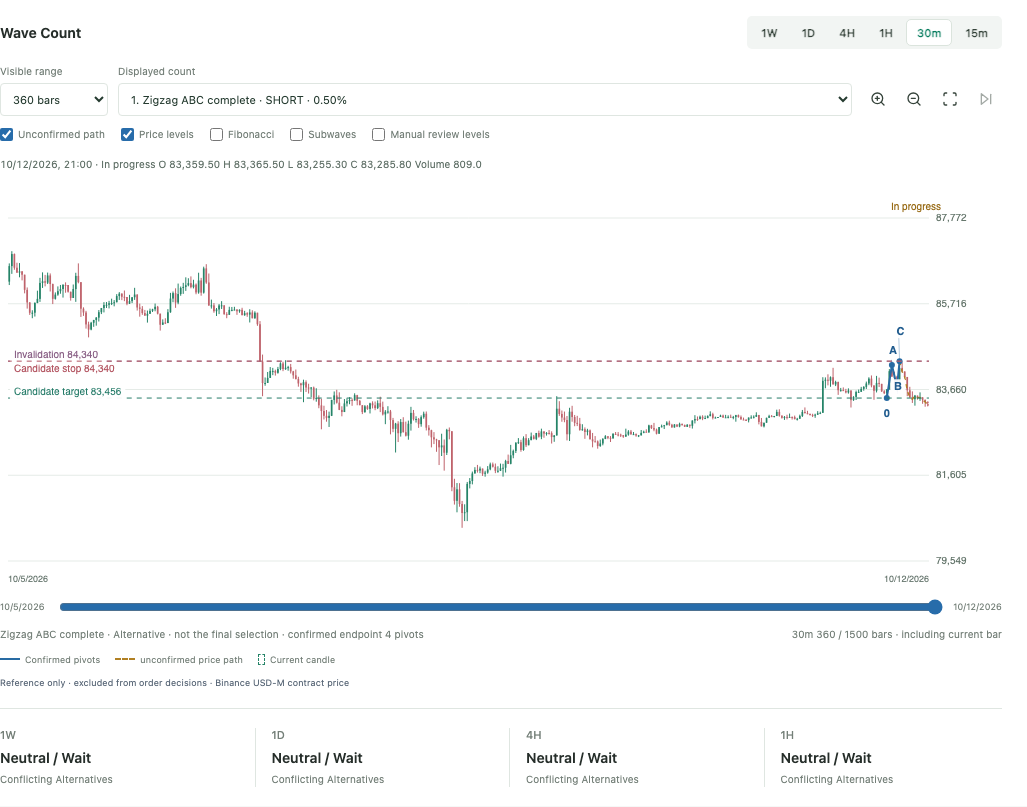
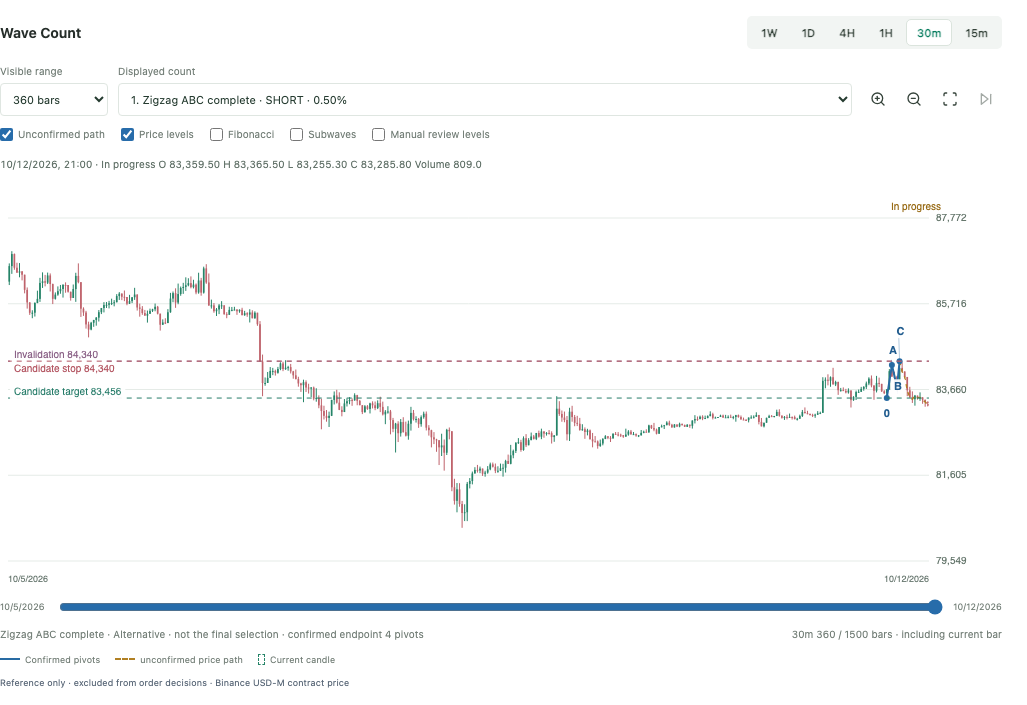
Show long short and neutral wave examples

diff --git a/README.md b/README.md
@@ -33,13 +33,17 @@ The interface defaults to English. Choose **한국어** from the **Language** me
 
 ## Screenshots
 
-These static screenshots were captured from the running PAPER app using public Binance USD-M candles on **12 Oct 2026 (KST)**. No API credentials, exchange account, or live orders were used. The main dashboard shows `WAIT`; the count examples below are not trade recommendations.
+These static screenshots were captured from the running PAPER app using public Binance USD-M candles on **12 Oct 2026 (KST)**. No API credentials, exchange account, or live orders were used. They show all three outcomes: a historical LONG candidate, a SHORT reference candidate, and the current `WAIT` decision. The directional candidates are below the configured fit threshold and are not trade signals.
 
 <table>
   <tr>
-    <td width="50%"><img src="docs/images/waves-4h-chart.png" alt="Historical four-hour Elliott Wave 3 LONG candidate with confirmed pivots, stop, target, and invalidation" /><br /><sub>4H · Historical Wave 3 LONG example · 12 Oct 2026, 16:59 KST · fit 61.2/100, below the 70 minimum · not a current signal</sub></td>
-    <td width="50%"><img src="docs/images/waves-30m-chart.png" alt="Latest thirty-minute Elliott Wave ABC completion candidate projected SHORT, marked reference-only" /><br /><sub>30m · Latest ABC SHORT candidate · fit 64.5/100, below the 70 minimum · reference only, not the final count or an entry signal</sub></td>
+    <td width="33%"><img src="docs/images/waves-4h-chart.png" alt="Historical four-hour Elliott Wave 3 LONG candidate with confirmed pivots, stop, target, and invalidation" /><br /><sub>LONG · 4H Wave 3 historical candidate · 12 Oct 2026, 16:59 KST · fit 61.2/100, below the 70 minimum · not a current signal</sub></td>
+    <td width="33%"><img src="docs/images/waves-30m-chart.png" alt="Latest thirty-minute Elliott Wave ABC completion candidate projected SHORT, marked reference-only" /><br /><sub>SHORT · 30m ABC candidate · 12 Oct 2026 snapshot · fit 64.5/100, below the 70 minimum · reference only, not an entry signal</sub></td>
+    <td width="33%"><img src="docs/images/direction-neutral.png" alt="Current four-hour dashboard decision is WAIT because no qualified entry structure is confirmed" /><br /><sub>NEUTRAL / WAIT · Current 4H strategy decision · no qualified Wave 3/5 entry structure</sub></td>
   </tr>
+</table>
+
+<table>
   <tr>
     <td><img src="docs/images/manual-levels.png" alt="Manual chart review with a hypothetical SHORT entry, stop, invalidation, and target levels" /><br /><sub>Manual review · hypothetical SHORT at the snapshot price · not an exchange position</sub></td>
     <td><img src="docs/images/risk-settings-sample.png" alt="Risk settings for capital, leverage, trade risk, and daily limits" /><br /><sub>Risk controls · capital, leverage, and loss limits</sub></td>

diff --git a/docs/README.ko.md b/docs/README.ko.md
@@ -33,13 +33,17 @@
 
 ## 화면
 
-아래 이미지는 **2026년 10월 12일(KST)** 공개 Binance USD-M 캔들을 사용해 실제 PAPER 화면에서 캡처한 정적 스냅샷입니다. API 키·거래소 계정·실주문은 사용하지 않았습니다. 메인 화면의 판정은 `WAIT`이며, 아래 카운트 예시는 매매 추천이 아닙니다.
+아래 이미지는 **2026년 10월 12일(KST)** 공개 Binance USD-M 캔들을 사용해 실제 PAPER 화면에서 캡처한 정적 스냅샷입니다. API 키·거래소 계정·실주문은 사용하지 않았습니다. LONG 과거 후보, SHORT 참고 후보, 현재 `WAIT` 판정까지 세 가지 결과를 각각 보여줍니다. LONG·SHORT 후보는 설정된 적합도 기준에 미달하므로 진입 신호가 아닙니다.
 
 <table>
   <tr>
-    <td width="50%"><img src="images/waves-4h-chart.png" alt="확정 피벗, 손절, 목표와 무효화가 표시된 과거 4시간봉 엘리엇 3파 롱 후보" /><br /><sub>4시간봉 · 과거 3파 LONG 예시 · 2026년 10월 12일 16:59 KST · 적합도 61.2/100, 최소 기준 70 미달 · 현재 신호 아님</sub></td>
-    <td width="50%"><img src="images/waves-30m-chart.png" alt="참고 전용으로 표시된 최신 30분봉 엘리엇 ABC 완료 숏 후보" /><br /><sub>30분봉 · 최신 ABC SHORT 후보 · 적합도 64.5/100, 최소 기준 70 미달 · 참고용이며 최종 카운트나 진입 신호가 아님</sub></td>
+    <td width="33%"><img src="images/waves-4h-chart.png" alt="확정 피벗, 손절, 목표와 무효화가 표시된 과거 4시간봉 엘리엇 3파 롱 후보" /><br /><sub>LONG · 4시간 3파 과거 후보 · 2026년 10월 12일 16:59 KST · 적합도 61.2/100, 최소 기준 70 미달 · 현재 신호 아님</sub></td>
+    <td width="33%"><img src="images/waves-30m-chart.png" alt="참고 전용으로 표시된 30분봉 엘리엇 ABC 완료 숏 후보" /><br /><sub>SHORT · 30분 ABC 후보 · 2026년 10월 12일 캡처 · 적합도 64.5/100, 최소 기준 70 미달 · 참고용이며 진입 신호가 아님</sub></td>
+    <td width="33%"><img src="images/direction-neutral.png" alt="진입 가능한 파동 구조가 확인되지 않아 현재 4시간 전략 판정이 WAIT인 대시보드" /><br /><sub>NEUTRAL / WAIT · 현재 4시간 전략 판정 · 진입 가능한 3파·5파 구조 미확인</sub></td>
   </tr>
+</table>
+
+<table>
   <tr>
     <td><img src="images/manual-levels.png" alt="가정 SHORT 진입가, 손절, 무효화, 목표선이 표시된 수동 검토 차트" /><br /><sub>수동 검토 · 스냅샷 가격의 가정 SHORT · 거래소 포지션이 아님</sub></td>
     <td><img src="images/risk-settings-sample.png" alt="자본, 레버리지, 거래당 위험, 일일 한도 설정 화면" /><br /><sub>위험 설정 · 배정 자본, 레버리지, 손실 한도</sub></td>
